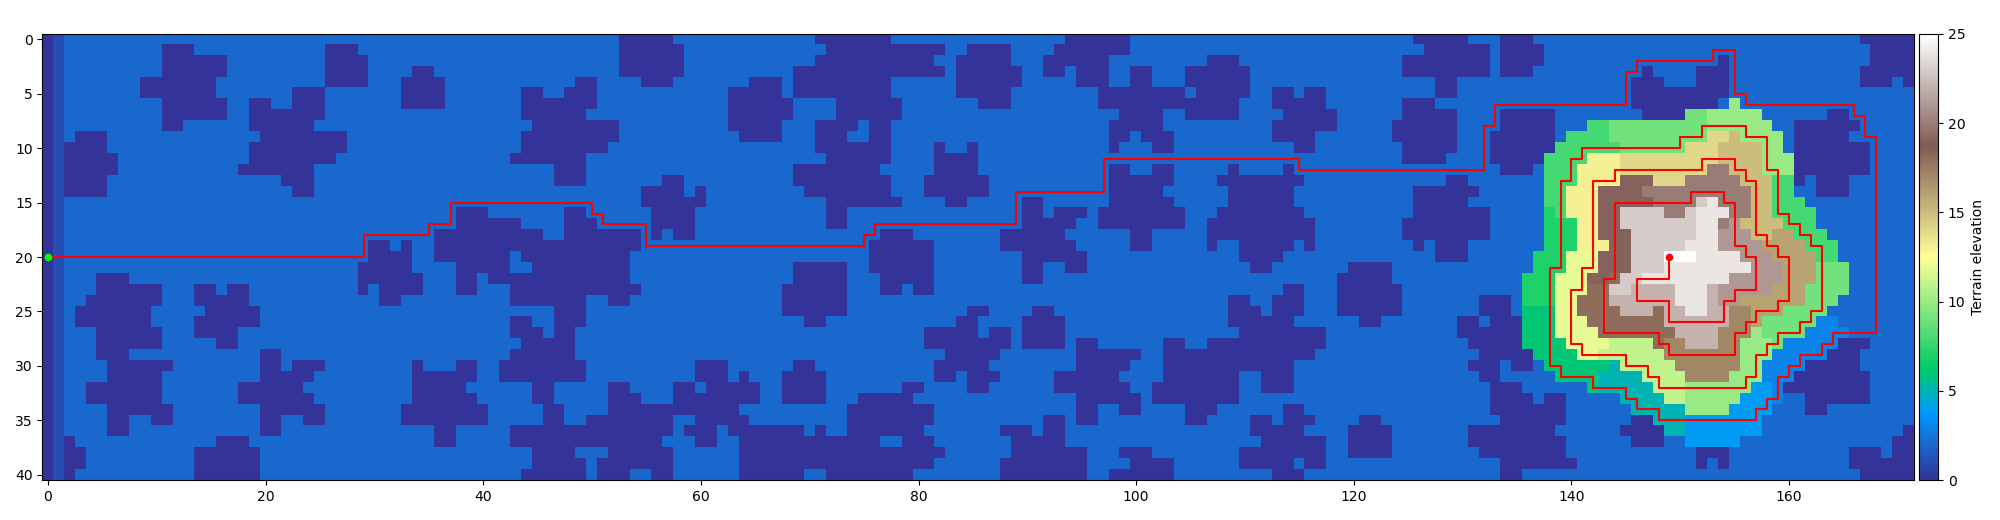
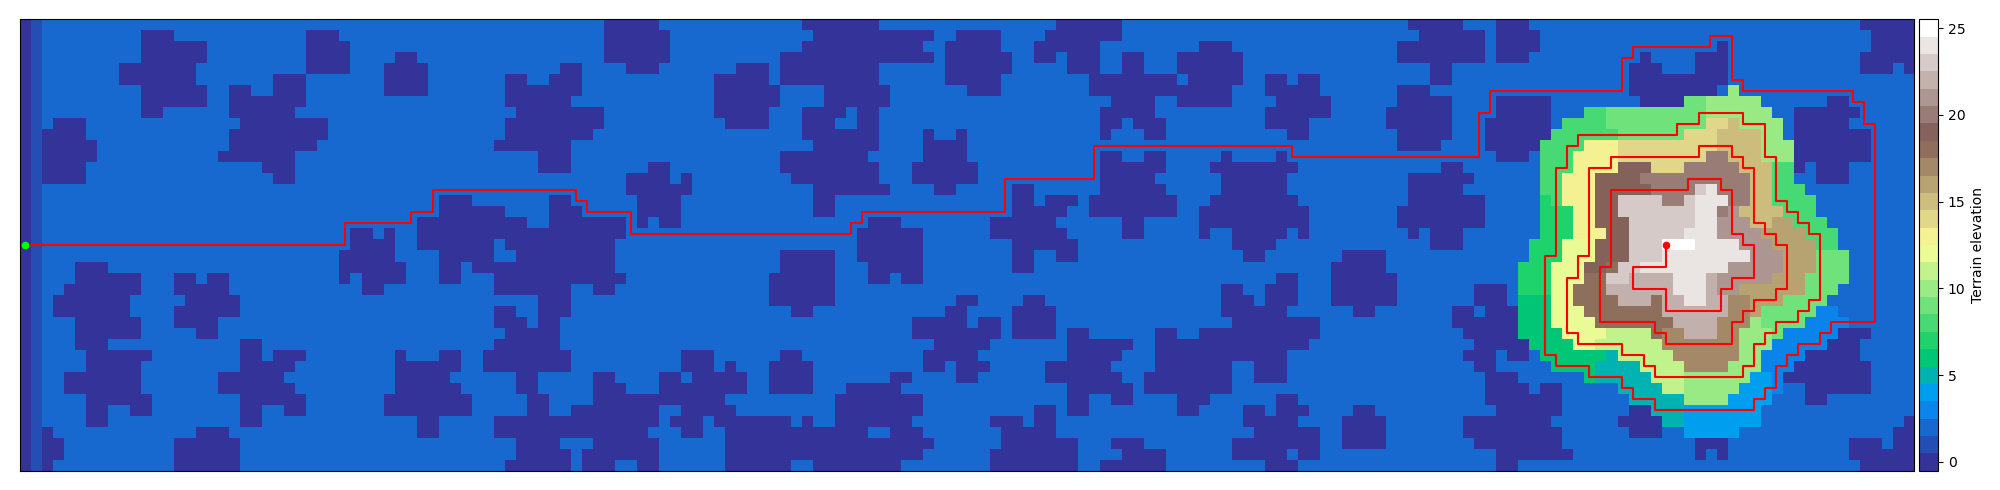
Day 12 visualization

diff --git a/day12/plot_path.py b/day12/plot_path.py
@@ -5,6 +5,7 @@ import random
 from queue import Queue
 import matplotlib.pyplot as plt
 from mpl_toolkits.axes_grid1.axes_divider import make_axes_locatable
+import matplotlib.colors as mcolors
 import numpy as np
 
 # ==============================================================================
@@ -78,14 +79,22 @@ for j in range(nx):
 
 pos, steps, path = BFS(grid, start, goal)
 
-plt.figure(figsize=(20,5.2))
-plt.imshow(heights, cmap="terrain")
+plt.figure(figsize=(20,4.9))
+
+cmap = plt.get_cmap("terrain", 26)
+plt.imshow(heights, cmap=cmap)
+
+plt.xticks([])
+plt.yticks([])
 
 ax = plt.gca()
 divider = make_axes_locatable(ax)
 cax = divider.append_axes("right", size="1%", pad=0.05) 
 cb = plt.colorbar(cax=cax)
 cb.set_label("Terrain elevation")
+levels = np.arange(0,26,5)
+cb.set_ticks([0.5+24*l/25 for l in levels])
+cb.set_ticklabels(levels)
 
 plt.sca(ax)
 
